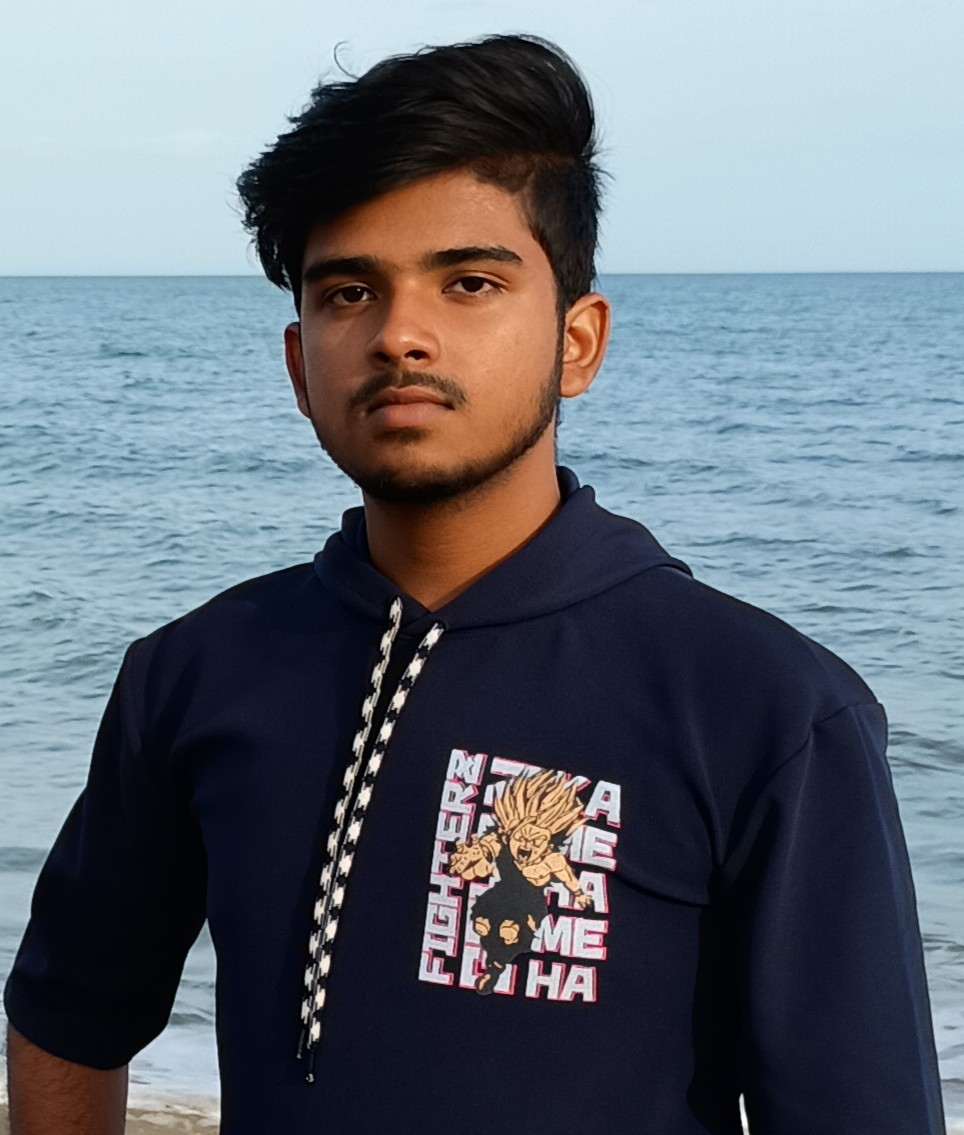
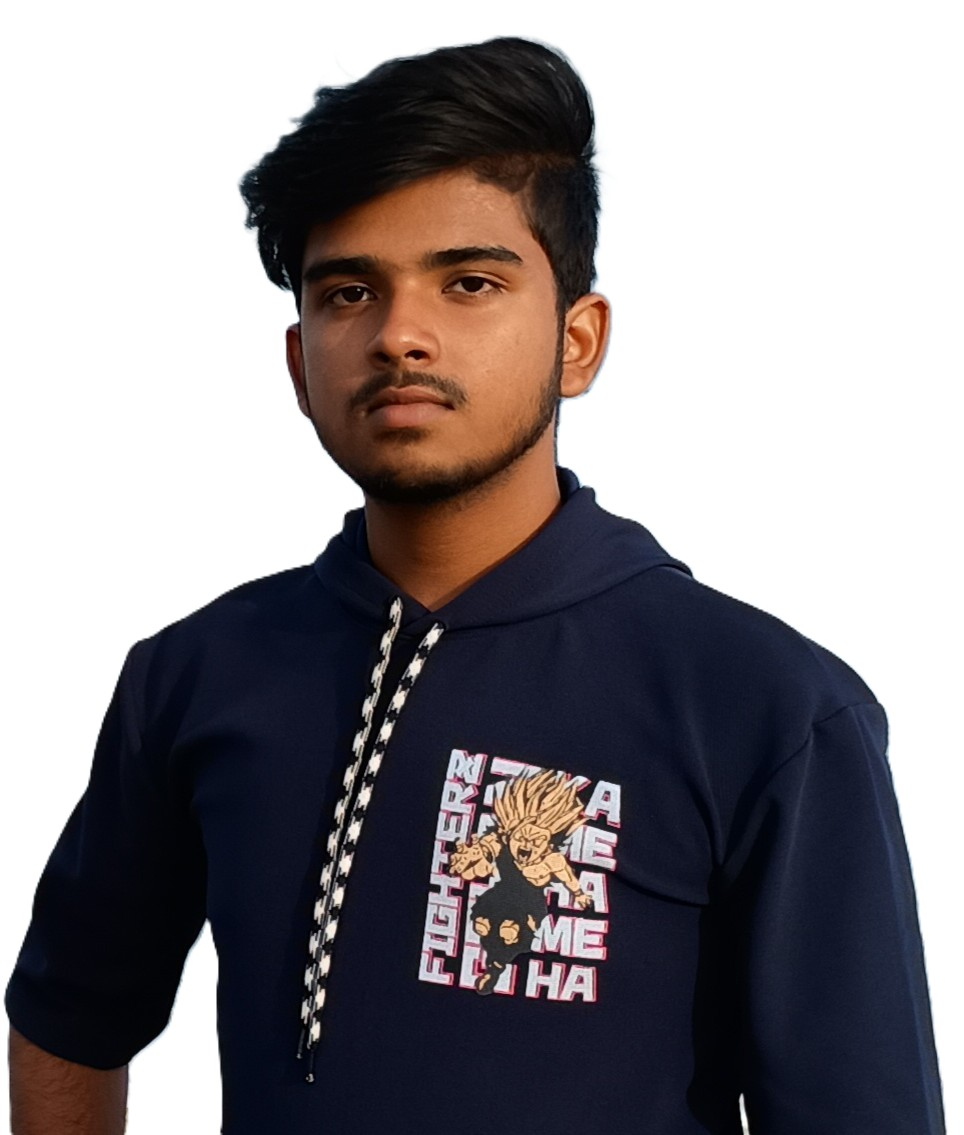
new changes

diff --git a/index.html b/index.html
@@ -6,6 +6,7 @@
         <link href="styles/general.css" rel="stylesheet">
         <link href="styles/intro.css" rel="stylesheet">
         <link href="styles/about.css" rel="stylesheet">
+        <link href="styles/project.css" rel="stylesheet">
         <link rel="preconnect" href="https://fonts.googleapis.com">
         <link rel="preconnect" href="https://fonts.gstatic.com" crossorigin>
         <link href="https://fonts.googleapis.com/css2?family=Montserrat:ital,wght@0,100..900;1,100..900&display=swap" rel="stylesheet">
@@ -54,7 +55,7 @@
             </div>
             <div class="description">
                     <div class="thiru-image">
-                        <img class="thiru" src="image">
+                        <img class="thiru" src="image/image.jpg">
                     </div>
                     <div class="content">
                         <p class="intro-title">Innovation Is My Drive</p>
@@ -66,6 +67,33 @@
                     </div>
             </div>
             
+        </section>
+        <!--Projects-->
+        <section >
+            <div class="project-intro">My Projects</div>
+            <div class="project-head">
+                <div class="project">
+                   <div class="project-title"> Project 1</div>
+                   <div class="project-def"> 
+                    <p>The Online Student Management System is a full-stack web application designed to manage student information digitally.</p>
+                   </div>
+                   <div class="project-link"></div>
+                </div>
+                <div class="project">
+                    <div class="project-title"> Project 1</div>
+                   <div class="project-def"> 
+                    <p>The Online Student Management System is a full-stack web application designed to manage student information digitally.</p>
+                   </div>
+                   <div class="project-link"></div>
+                </div>
+                <div class="project">
+                    <div class="project-title"> Project 1</div>
+                   <div class="project-def"> 
+                    <p>The Online Student Management System is a full-stack web application designed to manage student information digitally.</p>
+                   </div>
+                   <div class="project-link"></div>
+                </div>
+            </div>
         </section>
     </body>
 </html>

diff --git a/styles/about.css b/styles/about.css
@@ -1,7 +1,7 @@
 .about
 {
-    background-color:rgb(218, 126, 126);
-    
+    margin-left:125px;
+    margin-right:125px;
 }
 .description
 {
@@ -14,6 +14,15 @@
 {
     width:400px;
     height:400px;
+}
+.thiru
+{
+    border-radius:50px;
+    width:100%;
+}
+.content
+{
+    margin-left:50px;
 }
 .title
 {
@@ -42,4 +51,12 @@
 {
     width:400px;
     height:400px;
+}
+@media (max-width:250px)
+{
+    .description
+    {
+        display:grid;
+        grid-template-rows:250px 1fr;
+    }
 }

diff --git a/styles/general.css b/styles/general.css
@@ -1,5 +1,5 @@
 body
 {
     margin-top:300px;
-    height:1000px;
+    height:3000px;
 }
